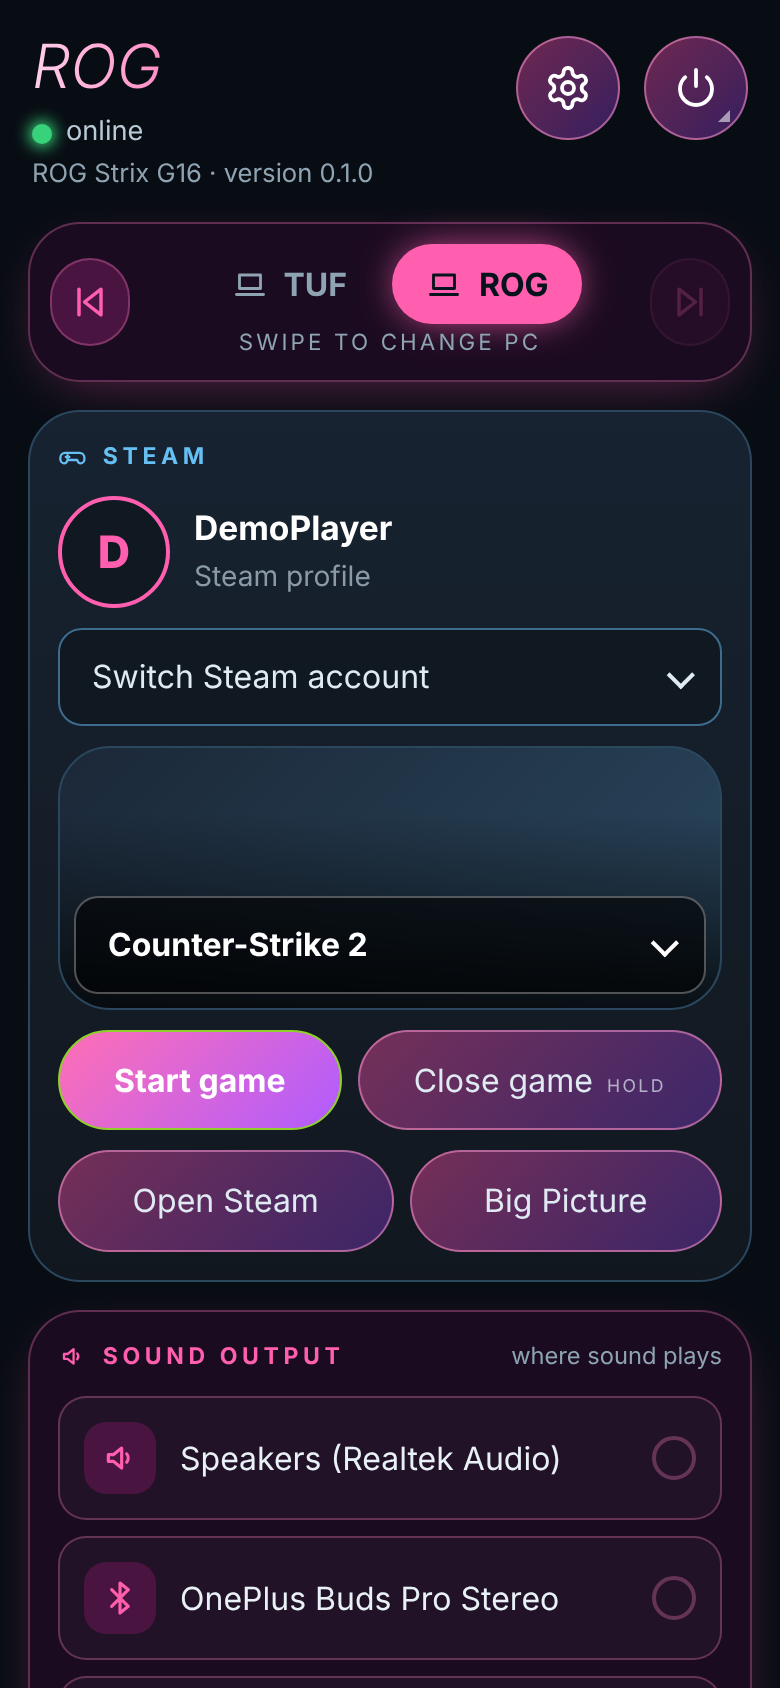
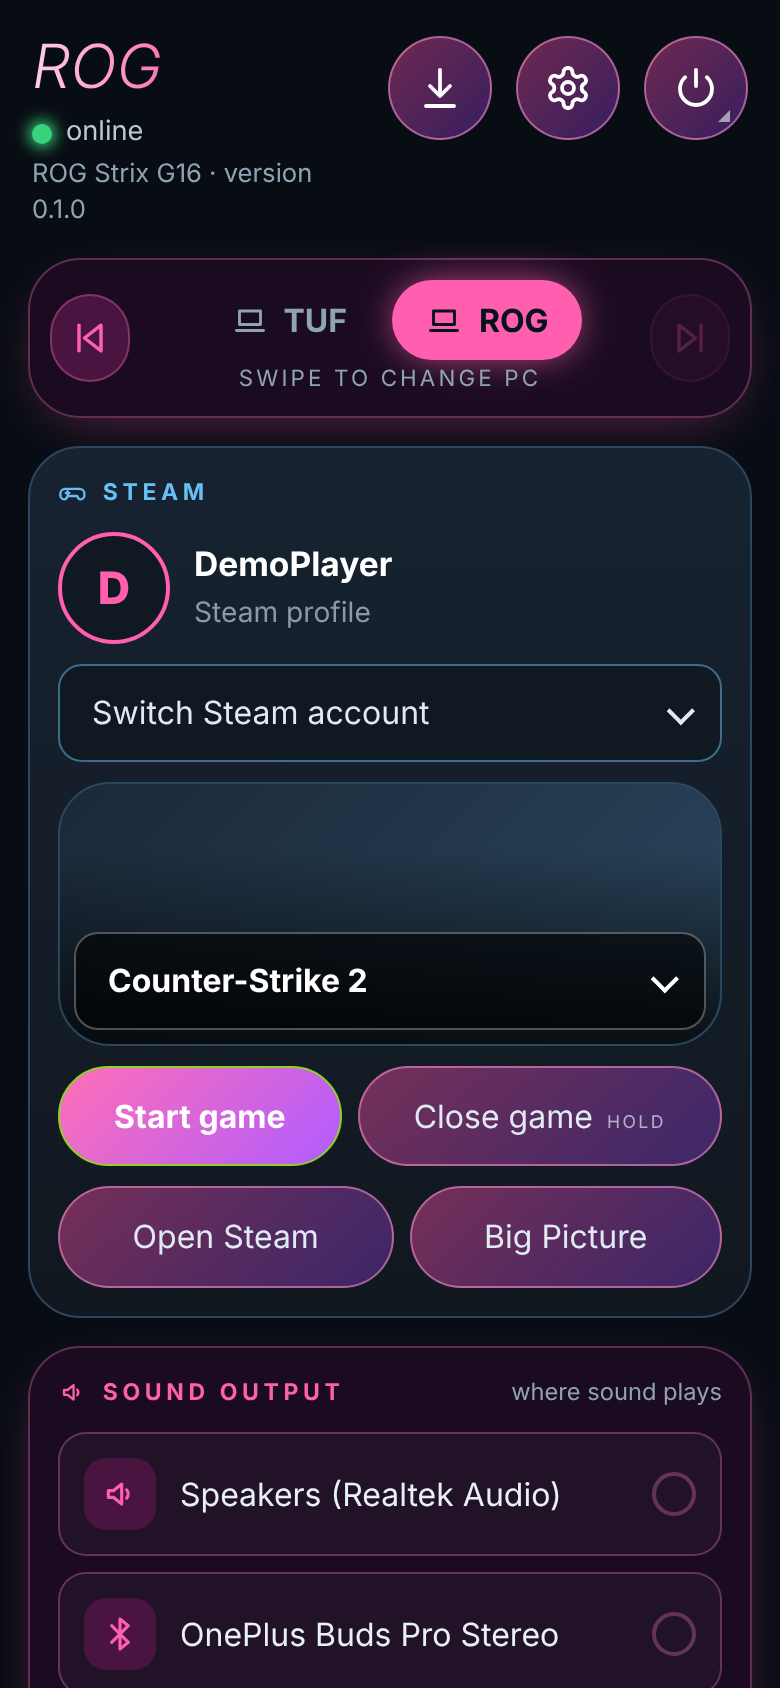
Games start in Performance mode; Update App moved to the top bar of every page
Claude-Session: https://claude.ai/code/session_012UQxDSXoho6XEbKP234m17

diff --git a/src/web/app.js b/src/web/app.js
@@ -32,26 +32,6 @@ async function act(action, arg, extra) {
   setTimeout(refresh, 3000)
 }
 
-// After "Update App": wait 5 seconds, then reload as soon as the program answers again (it takes about 15 seconds to come back).
-function reloadWhenBack() {
-  say('Updating… the page refreshes by itself in about 5 seconds.')
-  const started = Date.now()
-  const poll = async () => {
-    try {
-      const r = await fetch('/health', { cache: 'no-store' })
-      if (r.ok) {
-        location.reload()
-        return
-      }
-    } catch {
-      // Still restarting: try again.
-    }
-    if (Date.now() - started < 90_000) setTimeout(poll, 2000)
-    else say('Still restarting. Reload the page in a moment.', true)
-  }
-  setTimeout(poll, 5000)
-}
-
 // -- buttons --------------------------------------------------------------------------
 
 const HOLD_MS = 800
@@ -726,6 +706,15 @@ function render() {
   gear.addEventListener('click', () => {
     location.href = '/settings?k=' + encodeURIComponent(key)
   })
+  if (!helper) {
+    const upd = el('button', 'b pwr')
+    upd.type = 'button'
+    upd.title = 'Update App'
+    upd.setAttribute('aria-label', 'Update App')
+    upd.append(icon('download'))
+    upd.addEventListener('click', () => confirmBox('Update App?', 'It downloads the newest version and restarts by itself. The page refreshes in a few seconds.', 'Update', () => act('update')))
+    top.append(upd)
+  }
   top.append(gear)
   if (!helper) {
     const pwr = el('button', 'b pwr')
@@ -923,7 +912,7 @@ function render() {
   const parts = []
   if (!helper) {
     const g = el('div', 'grid3')
-    g.append(tile('pulse', 'Status', run('status'), { cls: 'small' }), tile('bolt', 'Update App', run('update'), { sure: 'Update this app? It restarts by itself.', cls: 'small' }))
+    g.append(tile('pulse', 'Status', run('status'), { cls: 'small' }))
     sys.append(g)
   }
   const others = data.others || []

diff --git a/src/web/common.js b/src/web/common.js
@@ -83,6 +83,7 @@ const ICONS = {
   leaf: ['M5 19c0-8 4-14 15-14 0 10-6 14-14 14z', 'M5 19l7-7'],
   balance: ['M12 4v16', 'M6 20h12', 'M5 8h14', 'M5 8l-3 7a3.5 3.5 0 0 0 6 0z', 'M19 8l-3 7a3.5 3.5 0 0 0 6 0z'],
   bolt: ['M13 2L4 14h7l-1 8 9-12h-7z'],
+  download: ['M12 3v12', 'M7 11l5 5 5-5', 'M5 21h14'],
   gamepad: ['M6 9h12a4 4 0 0 1 4 4v2a3 3 0 0 1-5 2l-1-2H8l-1 2a3 3 0 0 1-5-2v-2a4 4 0 0 1 4-4z', 'M8 11v3', 'M6.5 12.5h3'],
   grid: ['M4 4h6v6H4z', 'M14 4h6v6h-6z', 'M4 14h6v6H4z', 'M14 14h6v6h-6z'],
   terminal: ['M4 5h16v14H4z', 'M7 10l3 2-3 2', 'M12 15h5'],
@@ -218,4 +219,24 @@ function footer(feedbackUrl, version, where) {
   }
   f.append(el('p', 'copy', '© 2026 Aswin K Santhosh. Open source under the MIT licence: free to use and share, with this copyright notice kept.'))
   return f
+}
+
+// After "Update App": wait 5 seconds, then reload as soon as the program answers again (it takes about 15 seconds to come back).
+function reloadWhenBack() {
+  say('Updating… the page refreshes by itself in about 5 seconds.')
+  const started = Date.now()
+  const poll = async () => {
+    try {
+      const r = await fetch('/health', { cache: 'no-store' })
+      if (r.ok) {
+        location.reload()
+        return
+      }
+    } catch {
+      // Still restarting: try again.
+    }
+    if (Date.now() - started < 90_000) setTimeout(poll, 2000)
+    else say('Still restarting. Reload the page in a moment.', true)
+  }
+  setTimeout(poll, 5000)
 }

diff --git a/src/web/settings.js b/src/web/settings.js
@@ -290,6 +290,23 @@ function render() {
   const txt = el('div', 'txt')
   txt.append(el('h1', '', 'Settings'), el('div', 'model', name + (v.version ? '  ·  version ' + v.version : '')))
   top.append(back, txt)
+  // Update App sits in the top bar here too (same as on the main page).
+  const upd = btn('Update App', async () => {
+    try {
+      if (onThePc) say2((await call('/api/settings/tool', { tool: 'update' })).message)
+      else {
+        const j = await call('/api/do', { action: 'update' })
+        say2(j.message || 'Updating…')
+        if (/restart/i.test(j.message || '')) reloadWhenBack()
+      }
+    } catch (err) {
+      say2(err.message, true)
+    }
+  }, false, 'Update App?', 'pwr')
+  upd.textContent = ''
+  upd.append(icon('download'))
+  upd.title = 'Update App (hold to confirm)'
+  top.append(upd)
   p.append(top)
 
   // -- startup ----------------------------------------------------------------------------
@@ -367,7 +384,6 @@ function render() {
         say2(err.message, true)
       }
     }, false, sure))
-    about.push(tool('Update App', 'Download the newest version, install it and restart. One button for both.', 'update'))
     about.push(tool('Fix-It', 'Checks everything and tells you what to do.', 'fixit'))
     about.push(tool('Uninstall', 'Removes RemotePc from this PC. Your settings folder is kept.', 'uninstall', 'Uninstall RemotePc?'))
   }

diff --git a/README.md b/README.md
@@ -43,7 +43,7 @@ A **Windows 10 or 11 PC**, an **iPhone or Android phone**, and a **Google accoun
 | Button | What it does |
 |---|---|
 | Power menu (power icon, top right) and the Power card | Lock, Screen off, Sleep, Restart, Turn off, Cancel turn off. Sleep, Restart and Turn off ask "are you sure?" first |
-| Steam | Open Steam, Big Picture, pick one of your installed games and start it, close the running game, switch Steam account. Every game is started from this drop-down only. Starting asks first |
+| Steam | Open Steam, Big Picture, pick one of your installed games and start it (the PC switches to Performance mode), close the running game, switch Steam account. Every game is started from this drop-down only. Starting asks first |
 | Sound output | Choose where the sound plays (speakers, headphones, monitor) |
 | Bluetooth devices (drop-down) | Connect or disconnect a paired Bluetooth device (earbuds) on this PC, so it is free for your phone or another PC |
 | Media | Previous, play/pause, next, volume up/down, mute |
@@ -52,7 +52,8 @@ A **Windows 10 or 11 PC**, an **iPhone or Android phone**, and a **Google accoun
 | My buttons | Your own buttons that run a command you wrote (optional, see [docs/CUSTOMIZE.md](docs/CUSTOMIZE.md)) |
 | Theme | Pick one of three looks (Neon, Tactical, Clean). Several PCs? A swipe card above Steam moves between them |
 | Settings (cog, top right) | Start with Windows, Steam Big Picture at startup, power mode at startup, name, theme, PIN, home Wi-Fi access |
-| System | PC status (battery, graphics card, uptime) and **Update App** (updates, restarts by itself and refreshes the page) |
+| System | PC status (battery, graphics card, uptime) |
+| Update App (download icon, top bar of every page) | Updates, restarts by itself and refreshes the page |
 
 Risky buttons ask first, and a few need a short hold. Nothing you type on the phone is ever run as a command: the phone can only press buttons that exist. A paired phone can add apps from the laptop's own app list (Settings, My apps). Anyone holding a paired phone can do this, so forget a lost phone at once.
 
@@ -80,7 +81,7 @@ Everyone installs on their own PC and pairs their own phone. Nothing is shared b
 |---|---|
 | Add, change or remove a PIN (optional, extra safety if someone else may hold your phone) | Double-click **Set-PIN** (also in the Start menu) |
 | Pair another phone | Double-click **Pair-Phone** (also in the Start menu), scan the new code |
-| Update to the newest version | Press **Update App** on the phone page (System), or double-click **Update** |
+| Update to the newest version | Press the **Update App** icon (top bar of the page), or double-click **Update** |
 | Something does not work | Double-click **Fix-It**. It checks everything and tells you what to do |
 | Remove it | Double-click **Uninstall** |
 | Add my own buttons or apps (apps are added on the PC) | [docs/CUSTOMIZE.md](docs/CUSTOMIZE.md) |

diff --git a/context.md b/context.md
@@ -134,3 +134,7 @@ Rules: one logical change per commit; run the tests before pushing; keep PowerSh
 - Owner: "Remove temp limit from everything". Real cause it never worked: Windows only gave a chassis sensor (_TZ.TZ00 27.9 C, not the CPU) and the GPU (50 C) was under the 70 limit; a true CPU temperature needs a helper such as LibreHardwareMonitor, which the owner declined.
 - Deleted: src/limiter.mjs, its test, settings card + sensors route, config keys (limiterOn/cpuLimit/gpuLimit), doctor check, installer limiter install, ROG Ally 90 default, README/CUSTOMIZE/SECURITY text, preview data.
 - Kept ONLY clean-up: `removeOldLimiter` (setup.mjs) runs at install and Uninstall: restores the CPU/GPU settings with the old ProgramData limiter.mjs --restore, removes the "RemortStartPc Limiter" task and the ProgramData folder. Old config.json keys are ignored. Everything above in this file about the limiter is history.
+
+## Games start in Performance mode; Update App in the top bar (owner, 2026-11-18)
+- steam_game calls setMode("gaming") first (failure ignored), message says "in Performance mode". Not switched back afterwards.
+- "Update App" is an icon button (download arrow) in the top bar of the main page AND the Settings page (hold/confirm); the System tile was removed. reloadWhenBack() now lives in common.js. On the PC Settings page the button opens the Update window (tool route); on a phone it updates and reloads.
